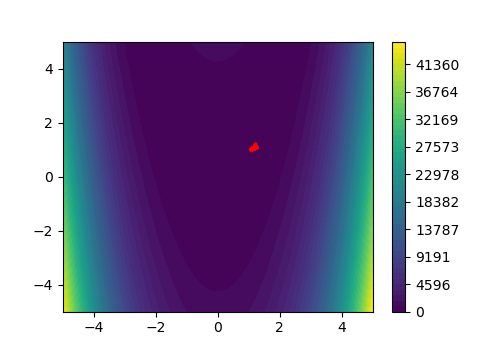
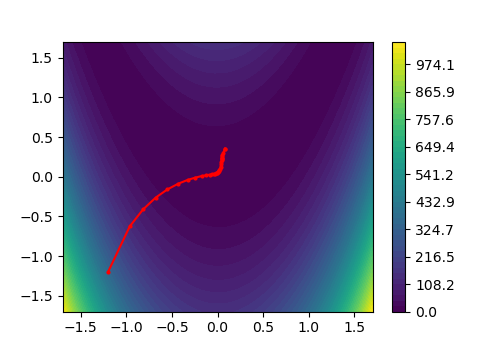
minor update

diff --git a/multivariate_optimization/conjugate_gradient_method/wolfe_condition.py b/multivariate_optimization/conjugate_gradient_method/wolfe_condition.py
@@ -1,87 +1,80 @@
+#based on https://github.com/minrk/scipy-1/blob/master/scipy/optimize/linesearch.py
 import numpy as np
 
-def phi(func, x_k, p_k, alpha):
-    x_k.resize(len(x_k),1)
-    p_k.resize(len(p_k),1)
-    x_kn = x_k + alpha * p_k
-    myphi = func(x_kn[0], x_kn[1])
-    return myphi
+def phi(f, xk, pk, alpha):
+    x_kn = xk + alpha*pk
+    value = f(x_kn[0], x_kn[1])
+
+    return value
     
-def der_phi(jac, x_k, p_k, alpha):
-    N = len(x_k)
-    x_k.resize(N,1)
-    p_k.resize(N,1)
-    arg = (x_k + alpha * p_k).flatten()
-    dphi = np.matmul( jac(arg[0], arg[1]), p_k)
-    return dphi
+def der_phi(df, xk, pk, alpha):
+    x_kn = xk + alpha*pk
+    value = np.dot(df(x_kn[0], x_kn[1]), pk)
+    
+    return value
 
-def zoom(alpha_lo, alpha_hi, func, jac, x_k, p_k, c1, c2, maxIter=100, tol = 1e-8):
-    if alpha_lo > alpha_hi:
-        temp = alpha_lo
-        alpha_lo = alpha_hi 
-        alpha_hi = temp
+def zoom(alpha_i, alpha_in, f, df, xk, pk, c1, c2, max_iter=100, tol=1e-8):
+    if alpha_i > alpha_in:
+        temp = alpha_i
+        alpha_i = alpha_in 
+        alpha_in = temp
+
     j=0
-    while j < maxIter:
-        alpha_j = (alpha_hi + alpha_lo)/2
 
-        # Calculate required terms
-        phi_j = phi(func,x_k,p_k,alpha_j)
-        phi_prime_0 = der_phi(jac, x_k, p_k, 0)
-        phi_0 = phi(func,x_k,p_k, 0) 
-        phi_lo = phi(func,x_k,p_k,alpha_lo)
+    while j < max_iter:
+        alpha_j = (alpha_in + alpha_i)/2
 
-        if abs(alpha_hi - alpha_lo) < tol:
+        phi_j = phi(f, xk, pk, alpha_j)
+        der_phi_0 = der_phi(df, xk, pk, 0)
+        phi_0 = phi(f, xk, pk, 0) 
+        phi_lo = phi(f, xk, pk, alpha_i)
+
+        if abs(alpha_in - alpha_i) < tol:
             return alpha_j
-            print('Line search stopped because the interval became to small. Return alpha_j.')
 
-        if phi_j > (phi_0 + c1 * alpha_j * phi_prime_0) or phi_j >= phi_lo:
-            alpha_hi = alpha_j
+        if phi_j > (phi_0 + c1 * alpha_j * der_phi_0) or phi_j >= phi_lo:
+            alpha_in = alpha_j
         else:
-            # alpha_j satisfies sufficient decrease condition
-            phi_prime_j = der_phi(jac, x_k, p_k, alpha_j)
+            der_phi_j = der_phi(df, xk, pk, alpha_j)
             
-            if abs(phi_prime_j) <= -c2*phi_prime_0:
-                # alpha_j satisfies strong curvature condition
+            if abs(der_phi_j) <= -c2*der_phi_0:
                 return alpha_j
 
-            if phi_prime_j * (alpha_hi - alpha_lo) >= 0:
-                alpha_hi = alpha_lo
+            if der_phi_j * (alpha_in - alpha_i) >= 0:
+                alpha_in = alpha_i
             
-            alpha_lo = alpha_j
+            alpha_i = alpha_j
         j+=1
-    print("zoom failed to converge")
-    return alpha_j # If convergence fails
+    
+    return alpha_j #converge failed
 
-def generate_alpha(func, jac, x_k, p_k, alpha_max=1e-3, c1=1e-3, c2=0.9, maxiter=1000):
-    alphas = [0, 0.9*alpha_max]
-    i = 1
+def generate_alpha(f, df, xk, pk, max_value=1e-3, c1=1e-3, c2=0.9, max_iter=1000):
+    alpha = [0, 0.9*max_value]
+    i = 0
 
-    while i < maxiter:
-        x_k = np.array(x_k)
-        # Calculate required terms
-        phi_i = phi(func,x_k,p_k,alphas[i])
-        phi_i_1 = phi(func,x_k,p_k,alphas[i-1])
-        phi_prime_0 = der_phi(jac,x_k,p_k, 0)
-        phi_0 = phi(func,x_k,p_k, 0) + c1 * alphas[i] * phi_prime_0
+    while i < max_iter:
+        xk = np.array(xk)
+
+        phi_in = phi(f,xk,pk,alpha[i+1])
+        phi_i = phi(f,xk,pk,alpha[i])
+        der_phi_0 = der_phi(df,xk,pk, 0)
+        phi_0 = phi(f,xk,pk, 0) + c1 * alpha[i+1] * der_phi_0
         
-        if phi_i > phi_0 or (phi_i >= phi_i_1 and i > 1):
-            a_star = zoom(alphas[i-1],alphas[i],func, jac, x_k, p_k, c1, c2)
-            #print('Linesearch found alpha*: ', a_star)
-            return a_star
-        phi_prime_i = der_phi(jac,x_k,p_k, alphas[i])
+        if phi_in > phi_0 or (phi_in >= phi_i and i > 0):
+            alpha_star = zoom(alpha[i],alpha[i+1],f, df, xk, pk, c1, c2)
+            return alpha_star
+        der_phi_in = der_phi(df,xk,pk, alpha[i+1])
         
-        if abs(phi_prime_i) <= -c2*phi_prime_0:
-            a_star = alphas[i]
-            #print('Linesearch found alpha*: ', a_star)
-            return a_star
+        if abs(der_phi_in) <= -c2*der_phi_0:
+            alpha_star = alpha[i+1]
+            return alpha_star
 
-        if phi_prime_i >= 0:
-            a_star = zoom(alphas[i],alphas[i-1],func, jac, x_k, p_k, c1, c2)
-            #print('Linesearch found alpha*: ', a_star)
-            return a_star
+        if der_phi_in >= 0:
+            alpha_star = zoom(alpha[i+1],alpha[i],f, df, xk, pk, c1, c2)
+            return alpha_star
 
-        # Update alpha_i and go again
-        alphas.append(min(2*alphas[i], alpha_max))
+        alpha.append(min(2*alpha[i+1], max_value))
         i+=1
 
-    return 0
+    return 0 #converge failed
+

diff --git a/multivariate_optimization/test_cgm.py b/multivariate_optimization/test_cgm.py
@@ -1,7 +1,6 @@
 from conjugate_gradient_method.linear import LinearCG
 from conjugate_gradient_method.nonlinear import NonLinearCG
-from visualization import problem_visualization, cgm_visualization, cgm_function_value_visualization
-import time
+from visualization import cgm_visualization, cgm_function_value_visualization
 
 def problem1():
     f = lambda x, y: (x+3*y-5)**2 +(3*x+y-7)**2 
@@ -38,23 +37,19 @@ if __name__ == "__main__":
     f, f_A, f_b = problem1()
     results, linear_fvalues = LinearCG(f=f, f_A=f_A, f_b=f_b, initial=initial_point)
     cgm_visualization(f=f, results=results, problem=str(1), type='linear', r=5)
-
+    initial_point = (-1.2, -1.2)
     for number, problem in enumerate(problems):
         print("Problem "+str(number+2))
         f, df, d2f = problem
         print('FR')
         results, fr_fvalues = NonLinearCG(f=f, df=df, d2f=d2f, type='FR', initial=initial_point)
-        cgm_visualization(f=f, results=results, problem=str(number+2), type='FR', r=5)
+        cgm_visualization(f=f, results=results, problem=str(number+2), type='FR', r=1)
         print('PR')
         results, pr_fvalues = NonLinearCG(f=f, df=df, d2f=d2f, type='PR', initial=initial_point)
-        cgm_visualization(f=f, results=results, problem=str(number+2), type='PR', r=5)
+        cgm_visualization(f=f, results=results, problem=str(number+2), type='PR', r=1)
         print('HS')
         results, hs_fvalues = NonLinearCG(f=f, df=df, d2f=d2f, type='HS', initial=initial_point)
-        cgm_visualization(f=f, results=results, problem=str(number+2), type='HS', r=5)
+        cgm_visualization(f=f, results=results, problem=str(number+2), type='HS', r=1)
         cgm_function_value_visualization(fr=fr_fvalues, hs=hs_fvalues, pr=pr_fvalues, problem=str(number+2), type='')
-
-
-        
-        
         
         

diff --git a/multivariate_optimization/conjugate_gradient_method/nonlinear.py b/multivariate_optimization/conjugate_gradient_method/nonlinear.py
@@ -17,8 +17,7 @@ def NonLinearCG(f, df, d2f, initial, max_iter=100, type='FR' ,threshold=1e-15):
     p = [-1*np.array(df(initial[0], initial[1]))]
     
     while(df(x[k][0], x[k][1]) != 0):
-        #alpha = generate_alpha(f, df, x[k], p[k])
-        alpha = generate_alpha(func=f, jac=df, x_k=x[k], p_k=p[k].copy())
+        alpha = generate_alpha(f=f, df=df, xk=x[k], pk=p[k].copy())
         x.append(x[k] + alpha*p[k])
         fvalues.append(f(x[k+1][0], x[k+1][1]))
 
@@ -36,3 +35,4 @@ def NonLinearCG(f, df, d2f, initial, max_iter=100, type='FR' ,threshold=1e-15):
             return x, fvalues
         if k >= max_iter:
             return x, fvalues
+        

diff --git a/multivariate_optimization/visualization.py b/multivariate_optimization/visualization.py
@@ -69,16 +69,16 @@ def cgm_visualization(f, results, problem='1', type='linear', r=10):
         point_y.append(result[1])
     
     if max(point_x) > r:
-        r_x = max(point_x)
+        r_x = max(point_x) + 0.5
     elif np.abs(min(point_x)) > r:
-        r_x = np.abs(min(point_x))
+        r_x = np.abs(min(point_x)) + 0.5
     else: 
         r_x = r
 
     if max(point_y) > r:
-        r_y = max(point_y)
+        r_y = max(point_y) + 0.5
     elif np.abs(min(point_y)) > r:
-        r_y = np.abs(min(point_y))
+        r_y = np.abs(min(point_y)) + 0.5
     else: 
         r_y = r
         

diff --git a/multivariate_optimization/conjugate_gradient_method/linear.py b/multivariate_optimization/conjugate_gradient_method/linear.py
@@ -1,6 +1,6 @@
 import numpy as np
 
-def LinearCG(f, f_A, f_b, initial, alpha=5e-5, max_iter=100000,threshold=1e-10):
+def LinearCG(f, f_A, f_b, initial, alpha=5e-5, max_iter=100000,threshold=1e-15):
     k = 0
     x = [initial]
     fvalues = [f(initial[0], initial[1])]
